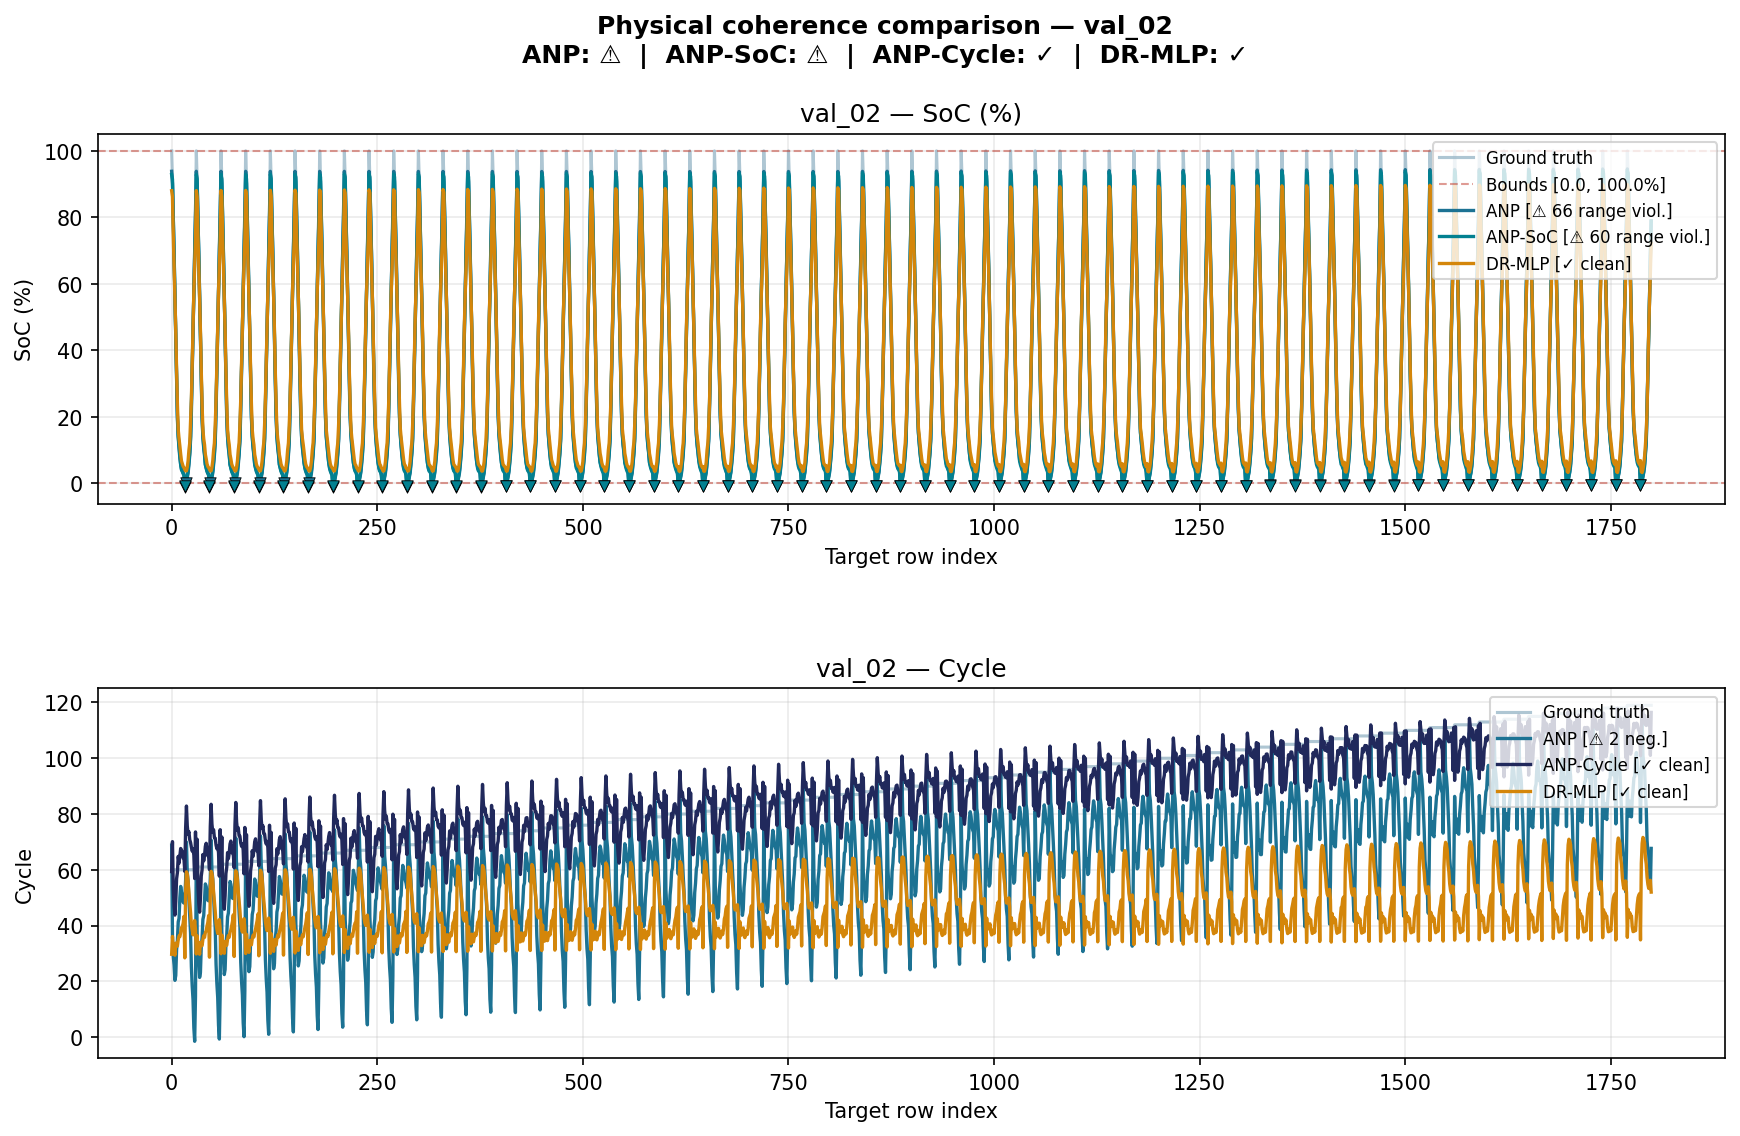
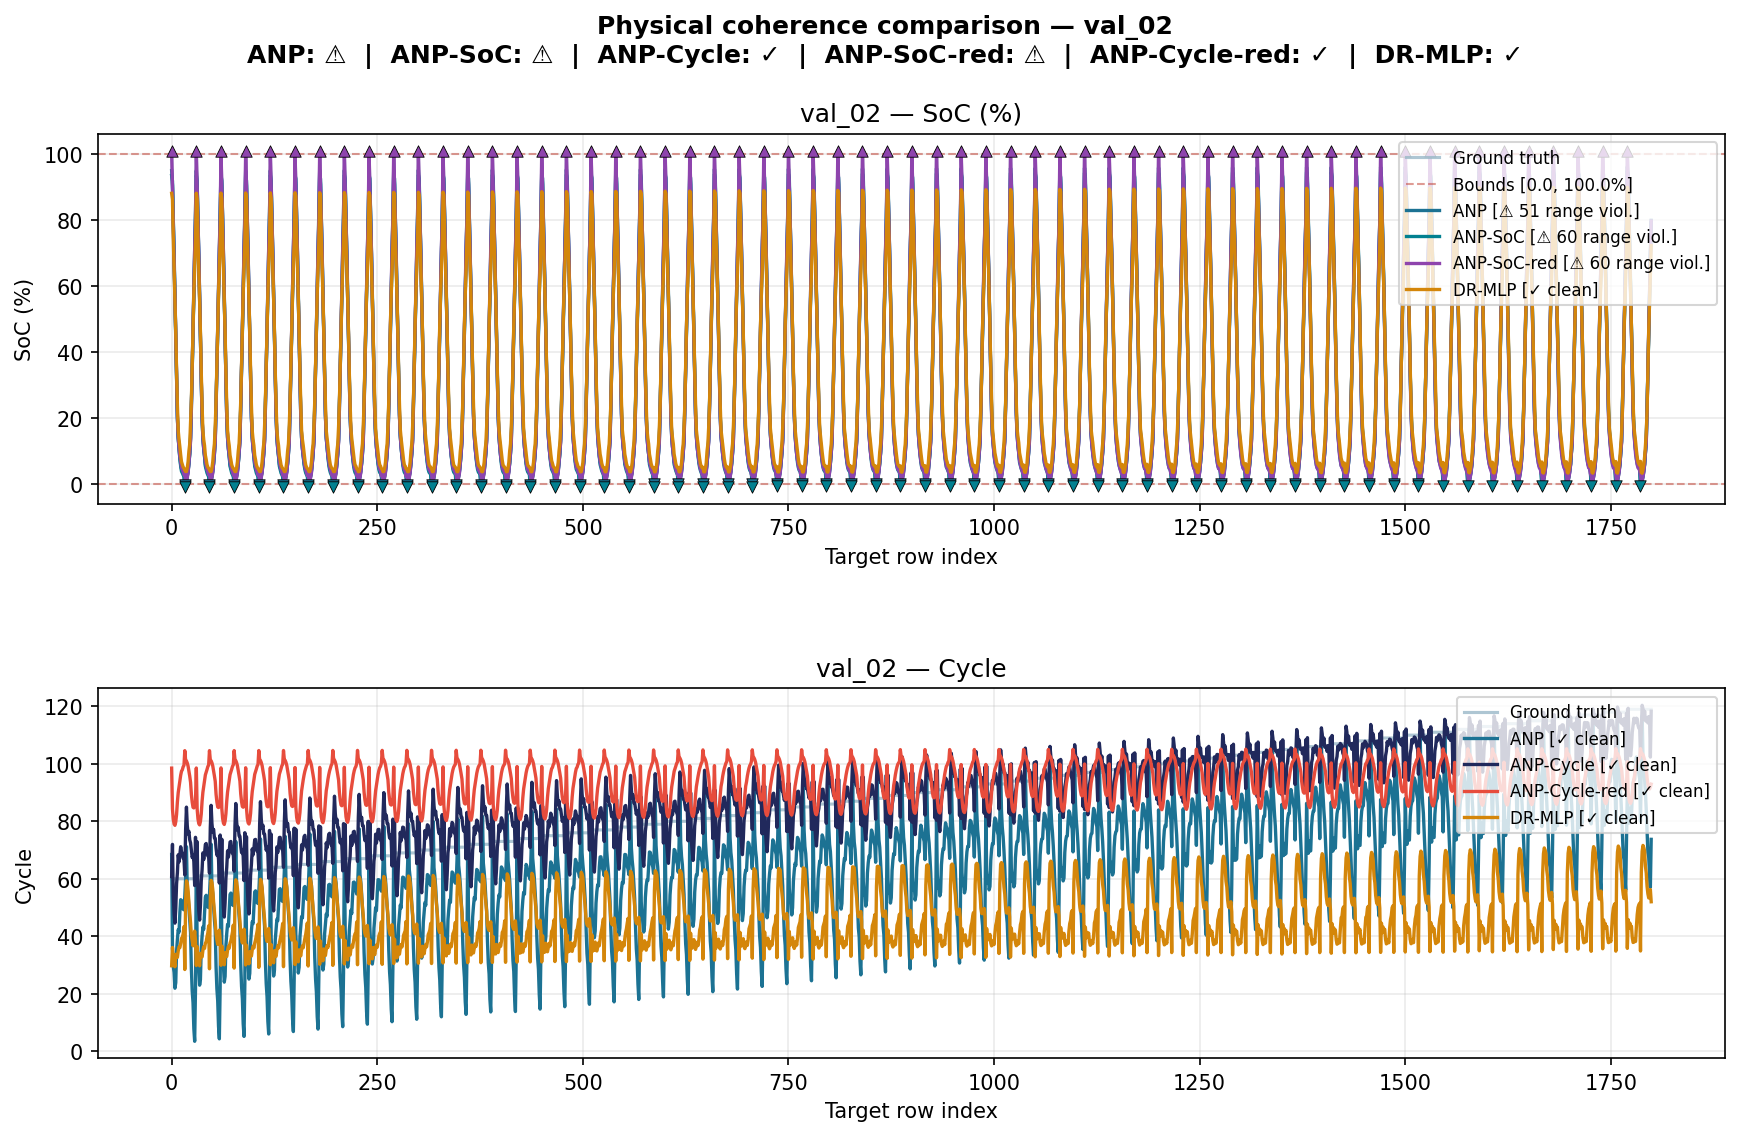
feat: update coherence evaluation scripts and reports with reduced feature models

diff --git a/csic/evaluate/test_physical_coherence.py b/csic/evaluate/test_physical_coherence.py
@@ -33,11 +33,13 @@ Output (saved to --out_dir):
 
 Usage:
     python test_physical_coherence.py \
-        --mlp_run       ../train/runs_mlp/20260511_121741 \
-        --anp_run       ../train/runs/anp_all_20260512_124715 \
-        --anp_soc_run   "../train/runs/anp_SoC(pct)_20260512_114601" \
-        --anp_cycle_run ../train/runs/anp_Cycle_20260512_114703 \
-        --data_dir      ../csic_real_synth_load/prepared_data
+        --mlp_run             ../train/runs_mlp/20260511_121741 \
+        --anp_run             ../train/runs/anp_all/20260512_124715 \
+        --anp_soc_run         ../train/runs/anp_SoC/20260512_114601 \
+        --anp_cycle_run       ../train/runs/anp_Cycle/20260512_114703 \
+        --anp_soc_reduced_run   ../train/runs/anp_SoC_reduced/20260513_110544 \
+        --anp_cycle_reduced_run ../train/runs/anp_Cycle_reduced/20260513_114323 \
+        --data_dir            ../csic_real_synth_load/prepared_data
 
 Location: csic/validation/test_physical_coherence.py
 ==============================================================================
@@ -73,6 +75,9 @@ from train.train_utils import (
     load_prepared_data,
     validate_targets,
     sort_task_by_cycle,
+    REDUCED_FEATURE_SETS,
+    get_feature_indices,
+    filter_x,
 )
 
 from models.anp import LatentModel
@@ -164,16 +169,16 @@ def load_anp_model(
     all_target_cols:  List[str],
     device:           torch.device,
     label:            str = "ANP",
-) -> Optional[Tuple[str, nn.Module, List[str]]]:
+) -> Optional[Tuple[str, nn.Module, List[str], Optional[List[str]]]]:
     """
-    Load an ANP checkpoint and detect which targets it was trained on.
+    Load an ANP checkpoint and detect which targets and features it was trained on.
 
     Reads config.json for num_hidden, attn_dropout, and target_col.
-    Works for dual-target (output_dim=2) and single-target (output_dim=1) models.
+    Infers model_input_dim directly from checkpoint weight shapes, robust to missing 'use_reduced_features' field in config.json.
 
     Returns:
-        (label, model, model_target_cols) or None if checkpoint not found.
-        model_target_cols is the subset of all_target_cols this model predicts.
+        (label, model, model_target_cols, feature_cols) or None if not found.
+        feature_cols is None for full-feature models, or a list of column names for reduced-feature models.
     """
     ckpt_path = run_dir / "best.pt"
     cfg_path  = run_dir / "config.json"
@@ -200,23 +205,54 @@ def load_anp_model(
     elif target_col in all_target_cols:
         model_target_cols = [target_col]
     else:
-        # Fallback: infer from decoder output weight shape
         raw = torch.load(ckpt_path, map_location="cpu")
         out_keys = [k for k in raw["model"] if "mean_projection" in k and "weight" in k]
         out_dim  = raw["model"][out_keys[0]].shape[0] if out_keys else len(all_target_cols)
         model_target_cols = all_target_cols[:out_dim]
 
     output_dim = len(model_target_cols)
-    model = LatentModel(num_hidden=num_hidden, input_dim=input_dim,
+
+    # ── Robustly determine model_input_dim from the checkpoint itself ──────────
+    # Works even if use_reduced_features was not saved in config.json.
+    raw     = torch.load(ckpt_path, map_location="cpu")
+    lat_key = next(
+        (k for k in raw["model"]
+         if "latent_encoder.input_projection.linear_layer.weight" in k), None
+    )
+    if lat_key:
+        # weight shape: [num_hidden, input_dim + output_dim]
+        model_input_dim = raw["model"][lat_key].shape[1] - output_dim
+    else:
+        model_input_dim = input_dim  # fallback: assume full features
+
+    # Determine feature_cols for X filtering during evaluation
+    if model_input_dim == input_dim:
+        feature_cols = None          # full feature set — no filtering needed
+    else:
+        feature_cols = REDUCED_FEATURE_SETS.get(target_col)
+        if feature_cols is None:
+            raise ValueError(
+                f"'{label}' has input_dim={model_input_dim} (not {input_dim}), "
+                f"but REDUCED_FEATURE_SETS has no entry for target_col='{target_col}'. "
+                f"Add the reduced feature list to REDUCED_FEATURE_SETS in train_utils.py."
+            )
+        if len(feature_cols) != model_input_dim:
+            raise ValueError(
+                f"'{label}': checkpoint input_dim={model_input_dim} but "
+                f"REDUCED_FEATURE_SETS['{target_col}'] has {len(feature_cols)} features. "
+                f"These must match — check REDUCED_FEATURE_SETS in train_utils.py."
+            )
+
+    model = LatentModel(num_hidden=num_hidden, input_dim=model_input_dim,
                         output_dim=output_dim, attn_dropout=attn_dropout)
-    ckpt = torch.load(ckpt_path, map_location=device)
-    model.load_state_dict(ckpt["model"])
+    model.load_state_dict(raw["model"])   # reuse already-loaded raw dict
     model.eval().to(device)
 
-    val_mae = ckpt.get("val_MAE", ckpt.get("val_loss", "?"))
+    val_mae  = raw.get("val_MAE", raw.get("val_loss", "?"))
+    feat_str = f"reduced({model_input_dim})" if feature_cols else f"all({input_dim})"
     print(f"  ✓  {label:<22} targets={model_target_cols}  "
-          f"num_hidden={num_hidden}  val_MAE={val_mae}")
-    return (label, model, model_target_cols)
+          f"num_hidden={num_hidden}  features={feat_str}  val_MAE={val_mae}")
+    return (label, model, model_target_cols, feature_cols)
 
 
 def load_mlp(ckpt_path: Path, input_dim: int, output_dim: int,
@@ -350,8 +386,7 @@ def check_coherence(
     Columns that are entirely NaN (targets not predicted by single-target models) are silently skipped, their violation counts stay at zero.
 
     Args:
-        pred_dn:     Denormalized predictions, shape (Nt, O). NaN values
-                     indicate targets not predicted by this model.
+        pred_dn:     Denormalized predictions, shape (Nt, O). NaN values indicate targets not predicted by this model.
         target_cols: Ordered list of all target column names.
         cfg:         CoherenceConfig with physical thresholds.
         model_label: Label for the model being evaluated.
@@ -620,17 +655,19 @@ def plot_comparison_coherence(
 # ==============================================================================
 
 def run(
-    anp_run_dir:       Optional[Path],
-    anp_soc_run_dir:   Optional[Path],
-    anp_cycle_run_dir: Optional[Path],
-    mlp_run_dir:       Optional[Path],
-    data_dir:          str,
-    out_dir:           Path,
-    cfg:               CoherenceConfig,
-    all_tasks:         bool = False,
-    specialist_id:     Optional[int] = None,
-    plot_violations:   bool = True,
-    plot_clean:        bool = False,
+    anp_run_dir:              Optional[Path],
+    anp_soc_run_dir:          Optional[Path],
+    anp_cycle_run_dir:        Optional[Path],
+    anp_soc_reduced_run_dir:  Optional[Path],
+    anp_cycle_reduced_run_dir: Optional[Path],
+    mlp_run_dir:              Optional[Path],
+    data_dir:                 str,
+    out_dir:                  Path,
+    cfg:                      CoherenceConfig,
+    all_tasks:                bool = False,
+    specialist_id:            Optional[int] = None,
+    plot_violations:          bool = True,
+    plot_clean:               bool = False,
 ) -> None:
     """
     Full coherence test pipeline.
@@ -691,28 +728,50 @@ def run(
     print(f"   Target columns  : {target_cols}")
     print(f"\n📦  Loading models...")
 
+    # x_col_names needed to map feature names → numpy indices for reduced models
+    x_col_names = list(data["normalized_synth_datasets"][0][0].columns)
+
     # ── Load models ───────────────────────────────────────────────────────────
-    # Each entry: (label, model, type, model_target_cols)
-    models_to_test: List[Tuple[str, nn.Module, str, List[str]]] = []
+    # Each entry: (label, model, type, model_target_cols, feature_cols)
+    # feature_cols: list of X column names for reduced models, None for full
+    models_to_test: List[Tuple[str, nn.Module, str, List[str], Optional[List[str]]]] = []
 
     if anp_run_dir is not None:
         anp = load_anp_model(anp_run_dir, input_dim, target_cols, device, label="ANP")
         if anp:
-            models_to_test.append((anp[0], anp[1], "anp", anp[2]))
+            models_to_test.append((anp[0], anp[1], "anp", anp[2], anp[3]))
 
     if anp_soc_run_dir is not None:
         anp_soc = load_anp_model(
             anp_soc_run_dir, input_dim, target_cols, device, label="ANP-SoC"
         )
         if anp_soc:
-            models_to_test.append((anp_soc[0], anp_soc[1], "anp", anp_soc[2]))
+            models_to_test.append((anp_soc[0], anp_soc[1], "anp", anp_soc[2], anp_soc[3]))
 
     if anp_cycle_run_dir is not None:
         anp_cyc = load_anp_model(
             anp_cycle_run_dir, input_dim, target_cols, device, label="ANP-Cycle"
         )
         if anp_cyc:
-            models_to_test.append((anp_cyc[0], anp_cyc[1], "anp", anp_cyc[2]))
+            models_to_test.append((anp_cyc[0], anp_cyc[1], "anp", anp_cyc[2], anp_cyc[3]))
+
+    if anp_soc_reduced_run_dir is not None:
+        anp_soc_r = load_anp_model(
+            anp_soc_reduced_run_dir, input_dim, target_cols,
+            device, label="ANP-SoC-red"
+        )
+        if anp_soc_r:
+            models_to_test.append((anp_soc_r[0], anp_soc_r[1], "anp",
+                                    anp_soc_r[2], anp_soc_r[3]))
+
+    if anp_cycle_reduced_run_dir is not None:
+        anp_cyc_r = load_anp_model(
+            anp_cycle_reduced_run_dir, input_dim, target_cols,
+            device, label="ANP-Cycle-red"
+        )
+        if anp_cyc_r:
+            models_to_test.append((anp_cyc_r[0], anp_cyc_r[1], "anp",
+                                    anp_cyc_r[2], anp_cyc_r[3]))
 
     if mlp_run_dir is not None:
         cfg_path = mlp_run_dir / "config.json"
@@ -726,19 +785,20 @@ def run(
         dr = load_mlp(mlp_run_dir / "dr_mlp" / "best.pt",
                       input_dim, output_dim, device, neurons, dropout)
         if dr:
-            models_to_test.append(("DR-MLP", dr, "mlp", target_cols))
+            models_to_test.append(("DR-MLP", dr, "mlp", target_cols, None))
 
         if specialist_id is not None:
             spec_path = mlp_run_dir / f"specialist_{specialist_id:02d}" / "best.pt"
             spec = load_mlp(spec_path, input_dim, output_dim, device, neurons, dropout)
             if spec:
-                models_to_test.append((f"Specialist_{specialist_id:02d}", spec, "mlp", target_cols))
+                models_to_test.append((f"Specialist_{specialist_id:02d}", spec, "mlp",
+                                        target_cols, None))
 
     if not models_to_test:
         print("\n  ⚠  No models loaded — check paths and try again.")
         return
 
-    print(f"\n  Models loaded: {[m for m, _, _, _ in models_to_test]}")
+    print(f"\n  Models loaded: {[m for m, _, _, _, _ in models_to_test]}")
 
     # ── Run coherence checks ──────────────────────────────────────────────────
     print(f"\n🔬  Running coherence checks...\n")
@@ -752,14 +812,19 @@ def run(
     task_reports:     Dict[str, Dict[str, ViolationReport]] = {}
     task_true_dn:     Dict[str, np.ndarray] = {}
 
-    for m_label, model, m_type, m_target_cols in models_to_test:
+    for m_label, model, m_type, m_target_cols, feat_cols in models_to_test:
+        feat_idx = get_feature_indices(x_col_names, feat_cols)
         print(f"  ── {m_label} ─────────────────────────────────────")
         for t_label, X_ctx, y_ctx, X_tgt, y_tgt in tasks_data:
 
             # Predict in normalized space (NaN for unmodelled targets)
             if m_type == "anp":
                 pred_norm = predict_anp(
-                    model, X_ctx, y_ctx, X_tgt, device,
+                    model,
+                    filter_x(X_ctx, feat_idx),   # filter X to model's features
+                    y_ctx,
+                    filter_x(X_tgt, feat_idx),   # filter X to model's features
+                    device,
                     target_cols, m_target_cols
                 )
             else:
@@ -880,7 +945,7 @@ def run(
                  f"mono_threshold = {cfg.mono_threshold}%")
     lines.append("=" * 70)
 
-    for m_label in [m for m, _, _, _ in models_to_test]:
+    for m_label in [m for m, _, _, _, _ in models_to_test]:
         m_reports = [r for r in all_reports if r.model_label == m_label]
         n_tasks   = len(m_reports)
         n_total   = sum(r.n_predictions for r in m_reports)
@@ -935,10 +1000,12 @@ def parse_args() -> argparse.Namespace:
         description="Physical coherence test for ANP variants and MLP predictions",
         formatter_class=argparse.ArgumentDefaultsHelpFormatter,
     )
-    p.add_argument("--anp_run",        type=str, default=None, help="Path to dual-target ANP run directory")
-    p.add_argument("--anp_soc_run",    type=str, default=None, help="Path to SoC-only ANP run directory")
-    p.add_argument("--anp_cycle_run",  type=str, default=None, help="Path to Cycle-only ANP run directory")
-    p.add_argument("--mlp_run",        type=str, default=None, help="Path to runs_mlp/<timestamp>/ directory")
+    p.add_argument("--anp_run",              type=str, default=None, help="Path to dual-target ANP run directory")
+    p.add_argument("--anp_soc_run",          type=str, default=None, help="Path to SoC-only ANP run directory")
+    p.add_argument("--anp_cycle_run",        type=str, default=None, help="Path to Cycle-only ANP run directory")
+    p.add_argument("--anp_soc_reduced_run",  type=str, default=None, help="Path to SoC-only ANP run with reduced features")
+    p.add_argument("--anp_cycle_reduced_run",type=str, default=None, help="Path to Cycle-only ANP run with reduced features")
+    p.add_argument("--mlp_run",              type=str, default=None, help="Path to runs_mlp/<timestamp>/ directory")
     p.add_argument("--data_dir",       type=str, default="../csic_real_synth_load/prepared_data")
     p.add_argument("--out_dir",        type=str, default="", help="Output directory (default: ./coherence/)")
     p.add_argument("--all_tasks",      action="store_true", help="Evaluate all 25 tasks instead of val+test only")
@@ -984,17 +1051,19 @@ def main() -> None:
     )
 
     run(
-        anp_run_dir       = Path(args.anp_run)       if args.anp_run       else None,
-        anp_soc_run_dir   = Path(args.anp_soc_run)   if args.anp_soc_run   else None,
-        anp_cycle_run_dir = Path(args.anp_cycle_run) if args.anp_cycle_run else None,
-        mlp_run_dir       = Path(args.mlp_run)       if args.mlp_run       else None,
-        data_dir          = args.data_dir,
-        out_dir           = out_dir,
-        cfg               = cfg,
-        all_tasks         = args.all_tasks,
-        specialist_id     = args.specialist_id,
-        plot_violations   = not args.no_plots,
-        plot_clean        = args.plot_clean,
+        anp_run_dir              = Path(args.anp_run)              if args.anp_run              else None,
+        anp_soc_run_dir          = Path(args.anp_soc_run)          if args.anp_soc_run          else None,
+        anp_cycle_run_dir        = Path(args.anp_cycle_run)        if args.anp_cycle_run        else None,
+        anp_soc_reduced_run_dir  = Path(args.anp_soc_reduced_run)  if args.anp_soc_reduced_run  else None,
+        anp_cycle_reduced_run_dir= Path(args.anp_cycle_reduced_run)if args.anp_cycle_reduced_run else None,
+        mlp_run_dir              = Path(args.mlp_run)              if args.mlp_run              else None,
+        data_dir        = args.data_dir,
+        out_dir         = out_dir,
+        cfg             = cfg,
+        all_tasks       = args.all_tasks,
+        specialist_id   = args.specialist_id,
+        plot_violations = not args.no_plots,
+        plot_clean      = args.plot_clean,
     )
 
 
